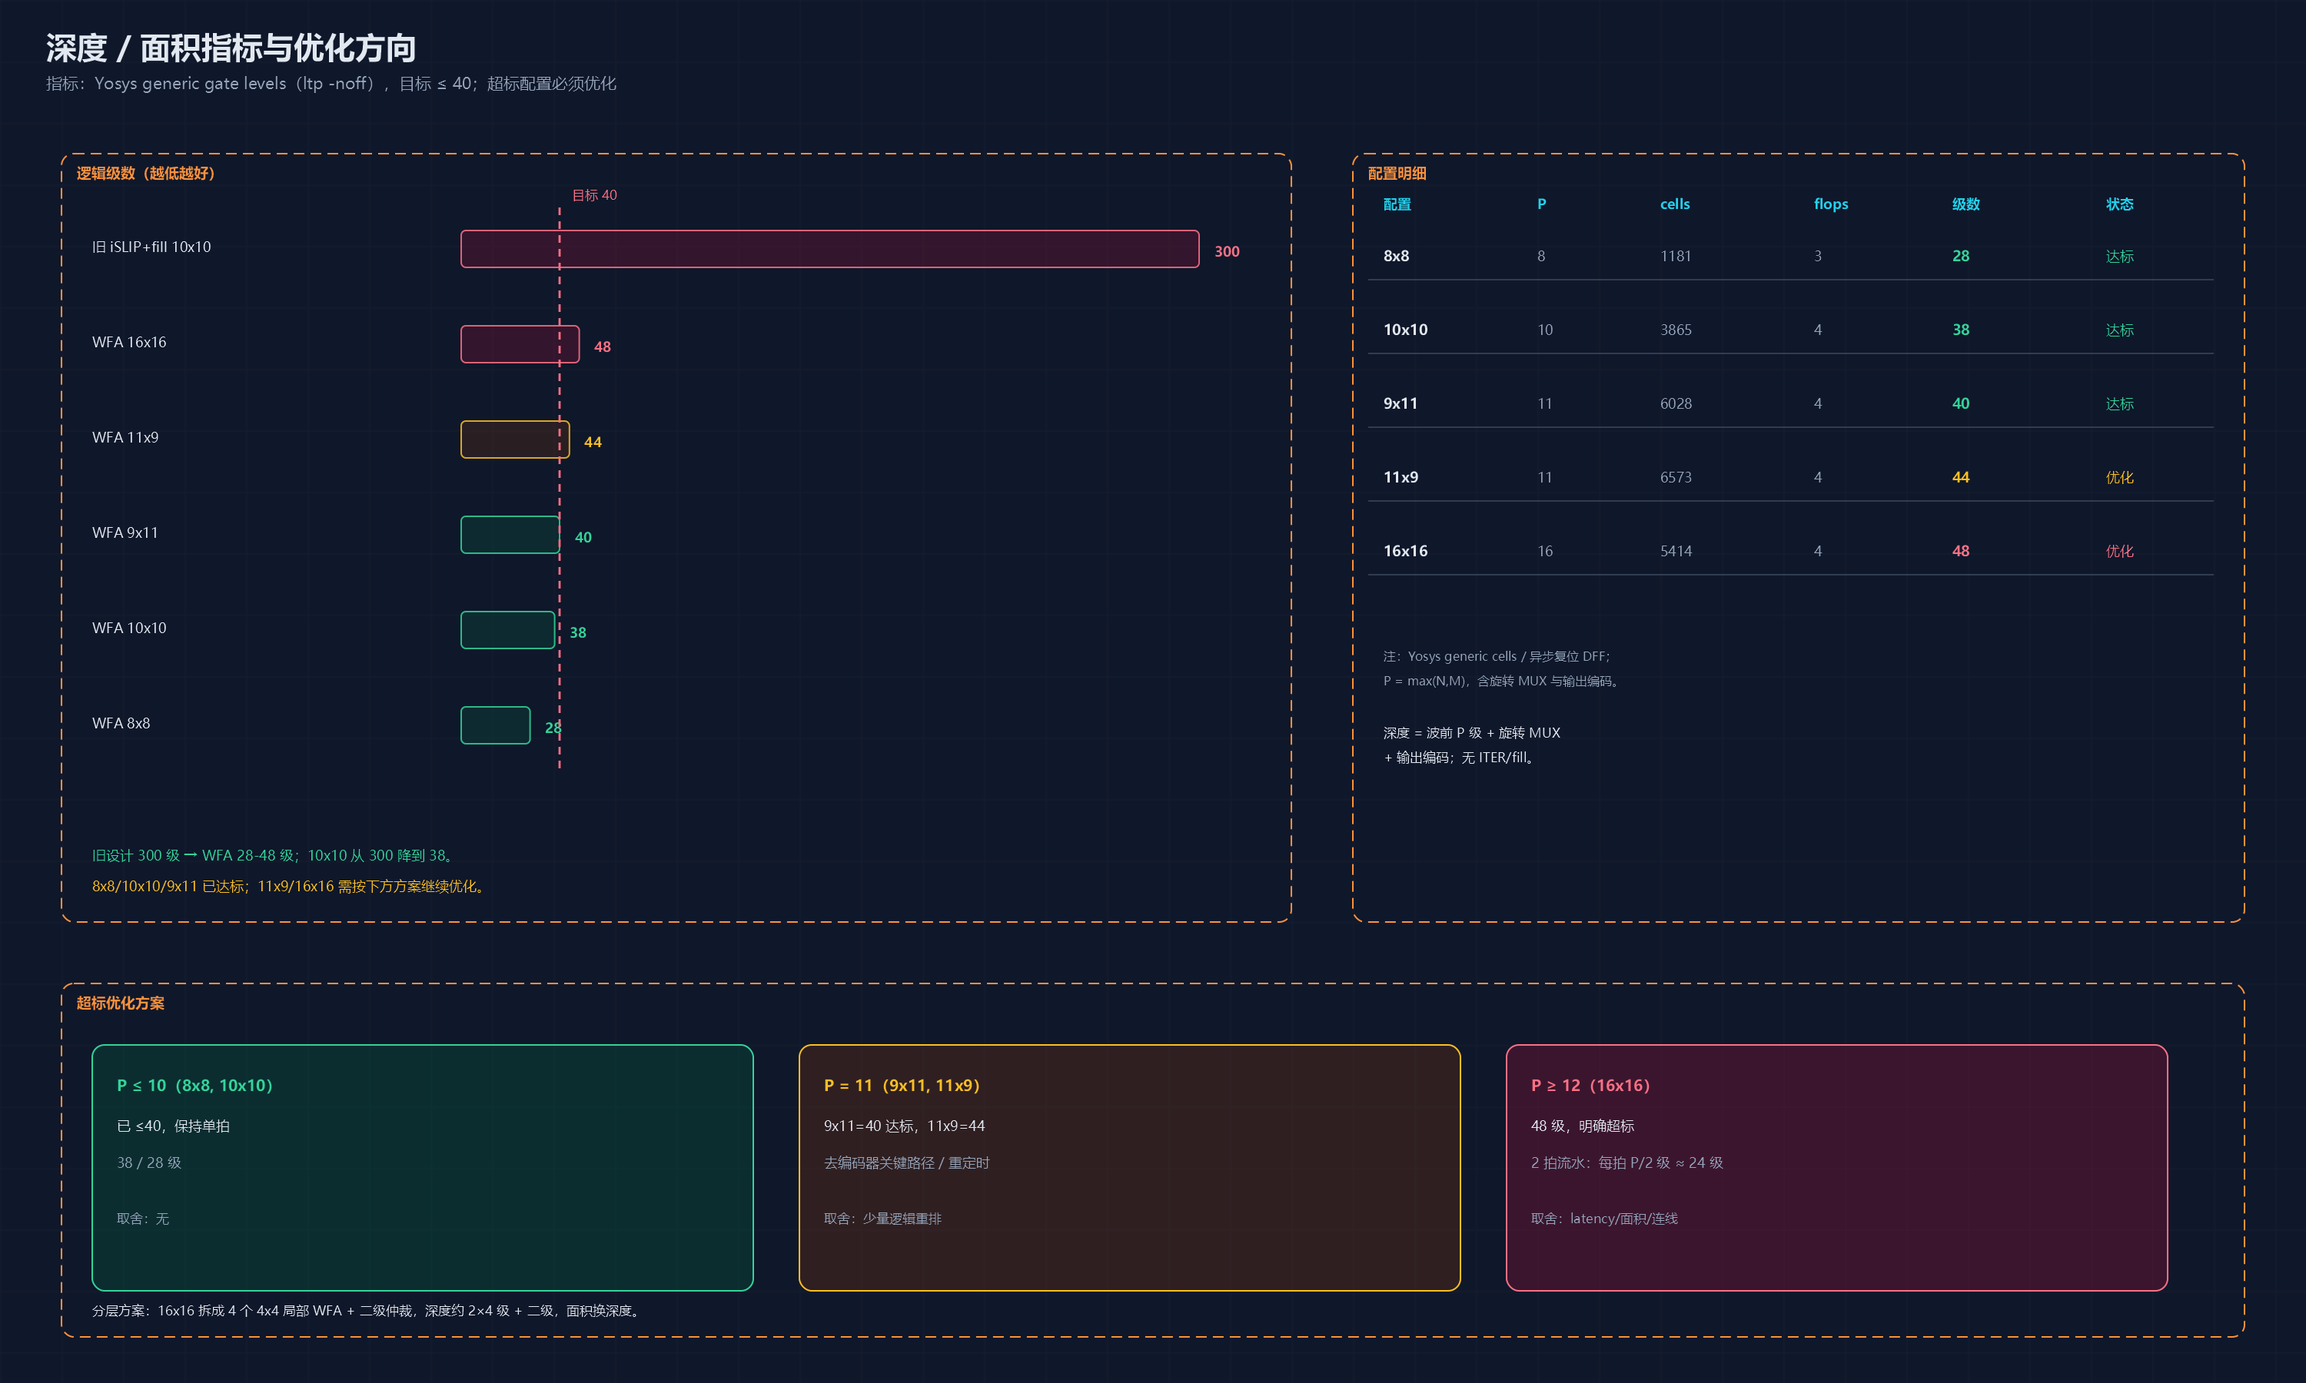
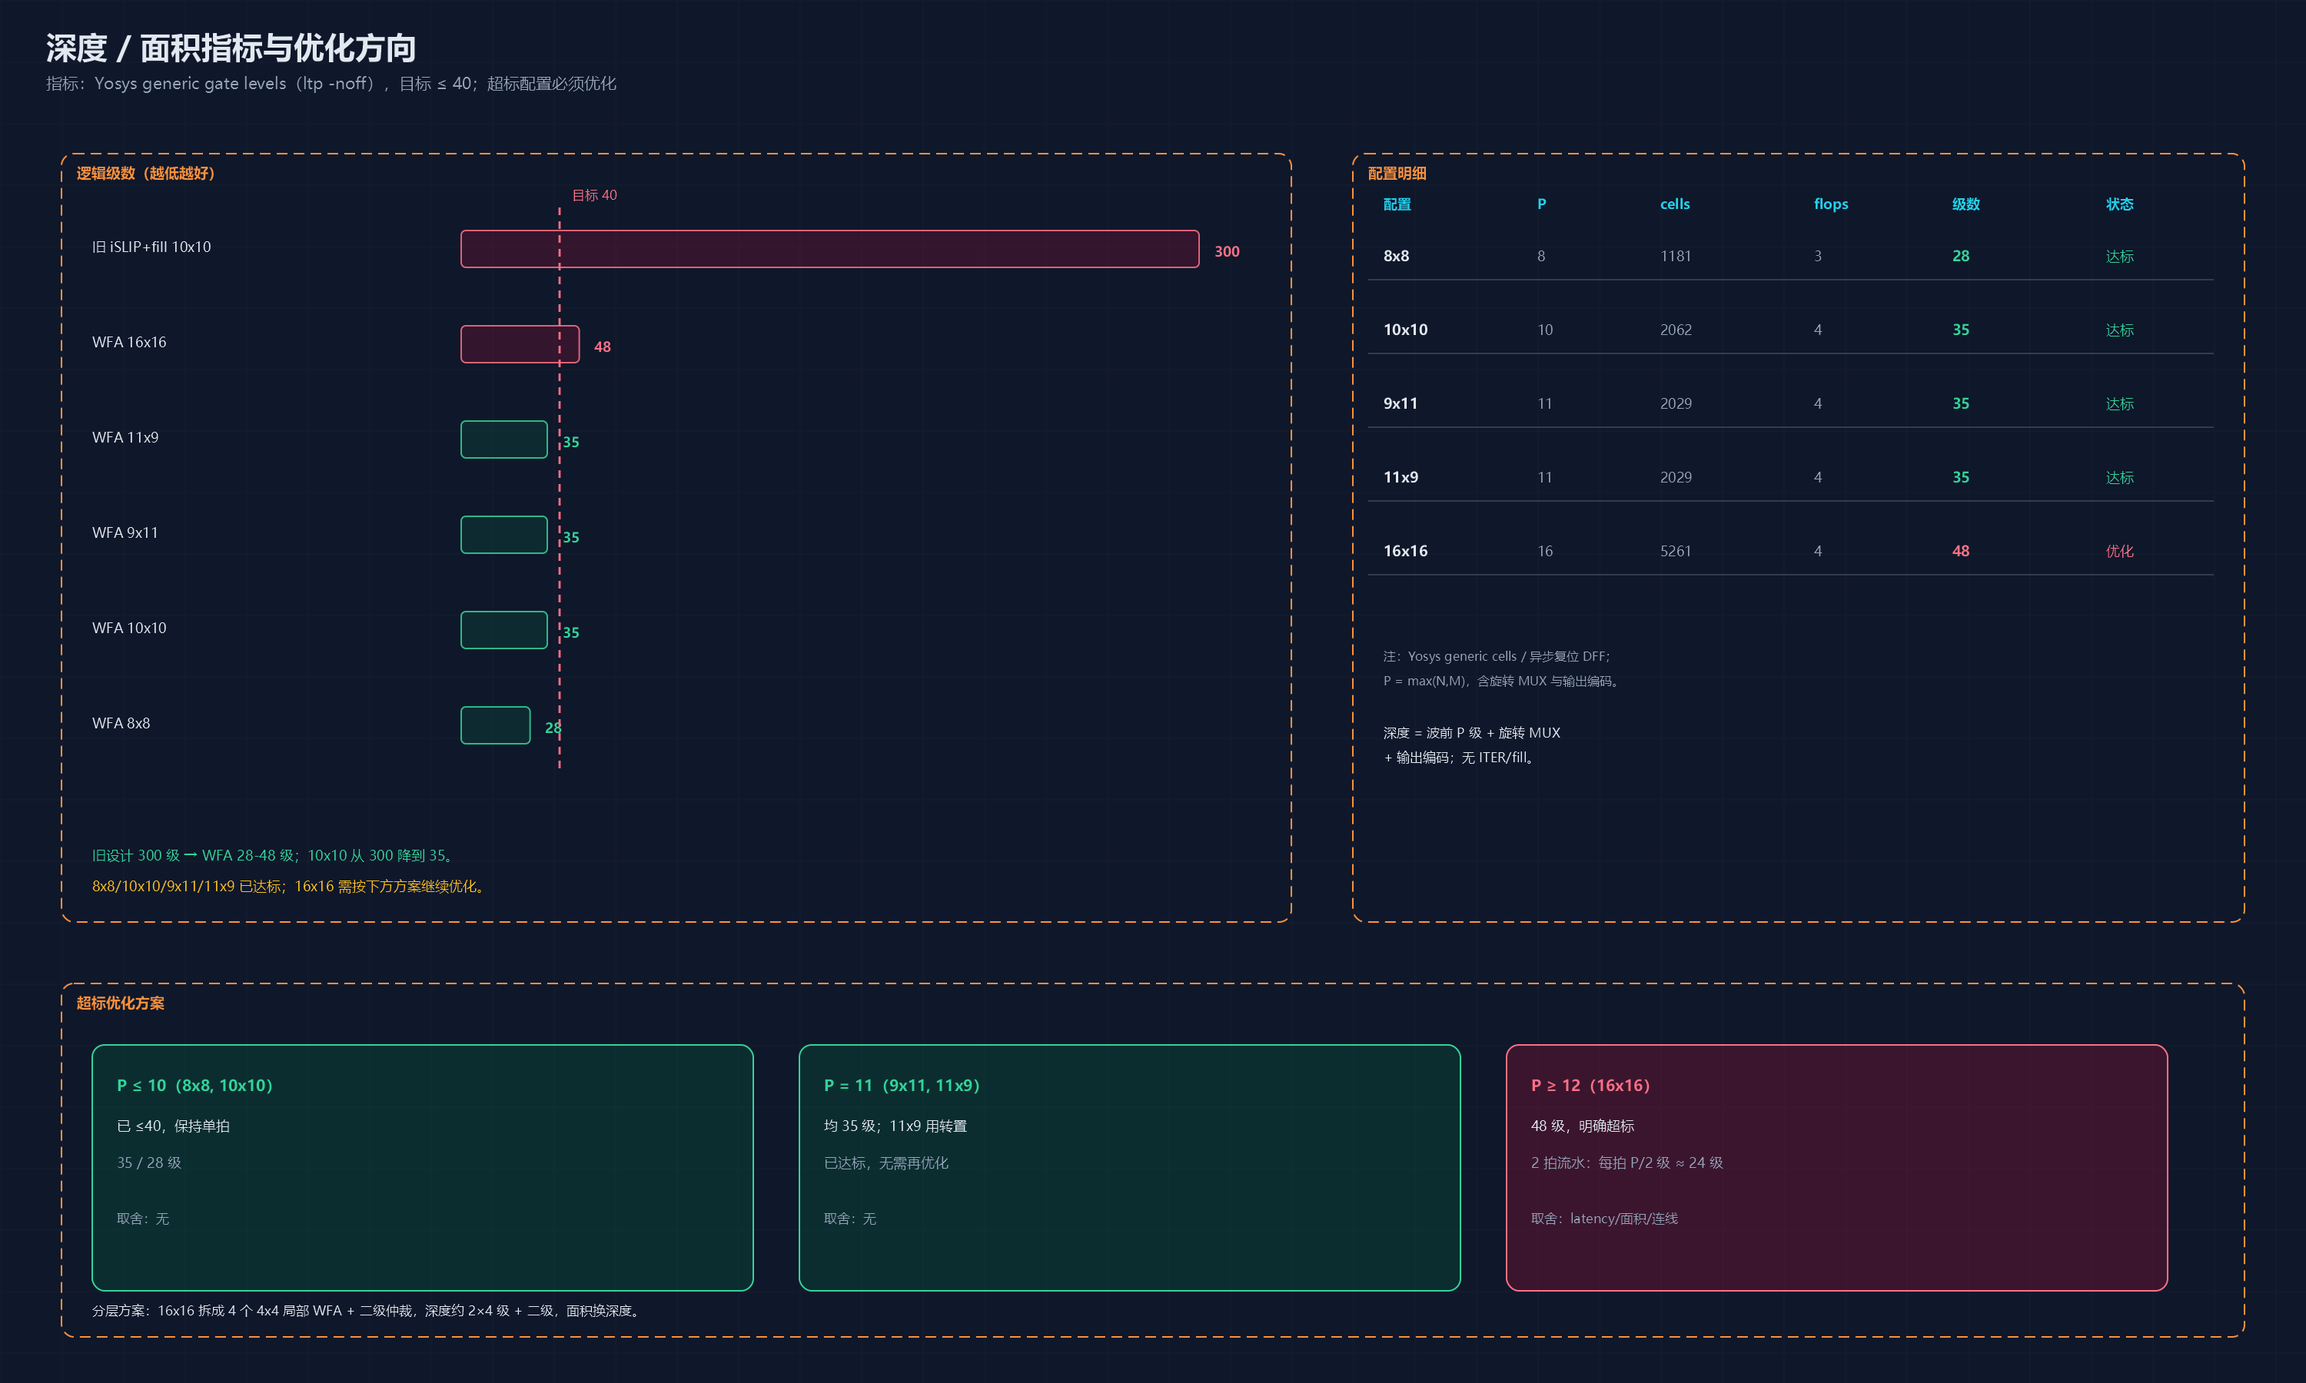
perf: log-depth delta rotator + N>M transpose + conditional reset
- Replace the runtime modulo + per-bit P-way mux with a log-depth cyclic
  rotator (P*logP muxes/row) for both input and inverse delta rotation.
- Add an N>M transpose wrapper: the core always sees Nc=min(N,M),
  Mc=max(N,M); the transpose is pure wiring, so 11x9 reuses the 9x11 core.
- Instantiate the output reset AND only for PTR_RESET=0; the default
  async-reset configuration no longer pays for it.

Yosys (flattened, generic gates): 8x8 1181/28, 10x10 2062/35,
9x11 2029/35, 11x9 2029/35, 16x16 5261/48; only 16x16 is above the
40-level target.  Old 10x10 was 3865/38.

Verification: main 22 configs / 295,797 checks PASS; maximality 18/18
(0 non-max, 0 wasted); soak 4x1500 + 10x10x20000 PASS; X-check 0;
verify_wfa.py 94,475 cases, 0 failures.  Docs/diagrams updated.

Changed region(s): [[0.341, 0.7467, 0.651, 0.9333], [0.186, 0.28, 0.248, 0.3422], [0.093, 0.6222, 0.124, 0.6533]]

diff --git a/scripts/gen_wfa_diagrams.py b/scripts/gen_wfa_diagrams.py
@@ -60,7 +60,7 @@ def d00(path):
     d = SVG(1700, 1050)
     d.txt(30, 38, "波前仲裁器（WFA / WWFA）— 总图", 20, TXT, weight=700)
     d.txt(30, 58, "P = max(N,M) 级对角线波前 · 每级 P 个 crosspoint cell · 单拍输出 · "
-                  "唯一状态是旋转起点 δ", 10.5, DIM)
+                  "N>M 自动转置 · 唯一状态是旋转起点 δ", 10.5, DIM)
 
     # inputs
     d.chip(30, 92, 150, 34, "clk", None, CYAN, title_size=10)
@@ -70,9 +70,10 @@ def d00(path):
     d.chip(30, 330, 220, 48, "i_dest_bp [M]", None, CYAN, title_size=9)
 
     # pad block
-    d.region(290, 150, 200, 260, "① 填充 / 门控")
-    d.txt(300, 180, "P x P 请求矩阵", 9, TXT, weight=600)
-    d.txt(300, 194, "真实 N x M + dummy 0", 7.5, DIM)
+    d.region(290, 150, 200, 260, "① 对称化 / 填充 / 门控")
+    d.txt(300, 180, "N>M: 先转置（纯连线）", 8.5, TXT, weight=600)
+    d.txt(300, 194, "Nc=min, Mc=max, P=Mc", 7.5, DIM)
+    d.txt(300, 208, "真实 Nc x Mc + dummy 0", 7.5, DIM)
     colors = [[MUTED] * 4 for _ in range(4)]
     real = [[True] * 4 for _ in range(4)]
     labels = [[""] * 4 for _ in range(4)]
@@ -80,10 +81,9 @@ def d00(path):
         for j in range(4):
             labels[i][j] = "R" if (i < 3 and j < 3) else "-"
             colors[i][j] = CYAN if (i < 3 and j < 3) else MUTED
-    grid4(d, 306, 214, 30, colors, labels, real=real)
-    d.txt(306, 356, "R = req & rst_n & ~src_bp & ~dest_bp", 7.5, DIM)
-    d.txt(306, 370, "dummy 行/列恒 0", 7.5, DIM)
-    d.txt(306, 384, "输出 req_pad[P x P]", 7.5, CYAN)
+    grid4(d, 306, 228, 30, colors, labels, real=real)
+    d.txt(306, 370, "R = req & rst_n & ~src_bp & ~dest_bp", 7.5, DIM)
+    d.txt(306, 384, "dummy 行/列恒 0；输出 req_pad[P x P]", 7.5, DIM)
 
     # rotate block
     d.region(520, 150, 190, 190, "② 列旋转 δ")
@@ -167,6 +167,7 @@ def d00(path):
     d.txt(1472, 334, "此级只做编码/扇出", 7.5, DIM)
     d.txt(1472, 360, "无 iSLIP 迭代、无 augment", 7.5, DIM)
     d.txt(1472, 374, "无 N 级串行 fill", 7.5, DIM)
+    d.txt(1472, 394, "N>M 时输出转置回 N x M", 7.5, CYAN)
 
     # output chips
     outs = [
@@ -210,8 +211,8 @@ def d00(path):
 
     # depth panel
     d.region(30, 700, 680, 300, "深度指标（Yosys generic gate levels）", AMBER)
-    rows = [("8x8", "P=8", "28", GREEN), ("10x10", "P=10", "38", GREEN),
-            ("9x11", "P=11", "40", GREEN), ("11x9", "P=11", "44", AMBER),
+    rows = [("8x8", "P=8", "28", GREEN), ("10x10", "P=10", "35", GREEN),
+            ("9x11", "P=11", "35", GREEN), ("11x9", "P=11", "35", GREEN),
             ("16x16", "P=16", "48", ROSE)]
     d.txt(50, 732, "配置", 9, DIM, weight=600)
     d.txt(190, 732, "P", 9, DIM, weight=600)
@@ -226,7 +227,7 @@ def d00(path):
               GREEN if c == GREEN else c)
         d.add('<line x1="40" y1="%d" x2="700" y2="%d" stroke="%s" '
               'stroke-width="0.5"/>' % (y + 10, y + 10, MUTED))
-    d.txt(50, 950, "目标线 40：8x8 / 10x10 / 9x11 达标；11x9 / 16x16 见右下优化方案", 8.5, AMBER)
+    d.txt(50, 950, "目标线 40：8x8 / 10x10 / 9x11 / 11x9 达标；仅 16x16 超标", 8.5, AMBER)
 
     # notes
     d.region(740, 780, 930, 220, "算法要点 / 优化方向", ORANGE)
@@ -235,7 +236,7 @@ def d00(path):
         "若某请求对两端在结束时都空闲，则轮到它时两端也空闲，必 grant。",
         "极大 ≠ 最大：允许某个源因唯一目的已被更早的对角线占用而落选。",
         "深度 = P 级 × 单 cell 延时 + 旋转/编码；没有 ITER 展开、没有串行 fill。",
-        "11x9 / 16x16 超过 40：可把波前按 2 拍流水（每拍 P/2 级，~24 级），或按 4x4",
+        "16x16 超过 40：可把波前按 2 拍流水（每拍 P/2 级，~24 级），或按 4x4",
         "分层先局部 WFA 再二级仲裁；代价分别是 latency +1 / 面积与连线增加。",
     ]
     for k, s in enumerate(notes):
@@ -669,9 +670,9 @@ def d05(path):
     rows = [
         ("旧 iSLIP+fill 10x10", 300, ROSE),
         ("WFA 16x16", 48, ROSE),
-        ("WFA 11x9", 44, AMBER),
-        ("WFA 9x11", 40, GREEN),
-        ("WFA 10x10", 38, GREEN),
+        ("WFA 11x9", 35, GREEN),
+        ("WFA 9x11", 35, GREEN),
+        ("WFA 10x10", 35, GREEN),
         ("WFA 8x8", 28, GREEN),
     ]
     maxv = 300
@@ -687,8 +688,8 @@ def d05(path):
     tx = 300 + 480 * 40 / maxv
     d.wire([(tx, 135), (tx, 500)], ROSE, arrow=False, dash="5,4")
     d.txt(tx + 8, 130, "目标 40", 8.5, ROSE)
-    d.txt(60, 560, "旧设计 300 级 → WFA 28-48 级；10x10 从 300 降到 38。", 9, GREEN)
-    d.txt(60, 580, "8x8/10x10/9x11 已达标；11x9/16x16 需按下方方案继续优化。", 9, AMBER)
+    d.txt(60, 560, "旧设计 300 级 → WFA 28-48 级；10x10 从 300 降到 35。", 9, GREEN)
+    d.txt(60, 580, "8x8/10x10/9x11/11x9 已达标；16x16 需按下方方案继续优化。", 9, AMBER)
 
     # table
     d.region(880, 100, 580, 500, "配置明细")
@@ -698,10 +699,10 @@ def d05(path):
         d.txt(x, 136, h, 9, CYAN, weight=600)
     data = [
         ("8x8", "8", "1181", "3", "28", GREEN),
-        ("10x10", "10", "3865", "4", "38", GREEN),
-        ("9x11", "11", "6028", "4", "40", GREEN),
-        ("11x9", "11", "6573", "4", "44", AMBER),
-        ("16x16", "16", "5414", "4", "48", ROSE),
+        ("10x10", "10", "2062", "4", "35", GREEN),
+        ("9x11", "11", "2029", "4", "35", GREEN),
+        ("11x9", "11", "2029", "4", "35", GREEN),
+        ("16x16", "16", "5261", "4", "48", ROSE),
     ]
     for k, (cfg, p, cells, ff, lv, c) in enumerate(data):
         y = 170 + k * 48
@@ -721,8 +722,8 @@ def d05(path):
     # optimization
     d.region(40, 640, 1420, 230, "超标优化方案")
     cards = [
-        ("P ≤ 10（8x8, 10x10）", "已 ≤40，保持单拍", "38 / 28 级", GREEN),
-        ("P = 11（9x11, 11x9）", "9x11=40 达标，11x9=44", "去编码器关键路径 / 重定时", AMBER),
+        ("P ≤ 10（8x8, 10x10）", "已 ≤40，保持单拍", "35 / 28 级", GREEN),
+        ("P = 11（9x11, 11x9）", "均 35 级；11x9 用转置", "已达标，无需再优化", GREEN),
         ("P ≥ 12（16x16）", "48 级，明确超标", "2 拍流水：每拍 P/2 级 ≈ 24 级", ROSE),
     ]
     for k, (t, s1, s2, c) in enumerate(cards):

diff --git a/docs/ppa.md b/docs/ppa.md
@@ -154,7 +154,7 @@ output encoders.  Designs above 40 levels are flagged for optimization.
 | Design | 8x8 | 10x10 | 9x11 | 11x9 | 16x16 |
 |--------|-----|-------|------|------|-------|
 | iSLIP + serial fill (old) | 129 (ITER=1) | 300 (ITER=4/AUG=1) | - | - | 372 (ITER=1) |
-| Wavefront WFA (default) | **28** | **38** | **40** | 44 | 48 |
+| Wavefront WFA (default) | **28** | **35** | **35** | **35** | 48 |
 | Target | <=40 | <=40 | <=40 | <=40 | <=40 |
 
 WFA synthesis detail (generic cells, async-reset DFF, `synth/synth.ys`):
@@ -162,20 +162,21 @@ WFA synthesis detail (generic cells, async-reset DFF, `synth/synth.ys`):
 | Config | cells | flops | levels |
 |--------|-------|-------|--------|
 | 8x8 | 1181 | 3 | 28 |
-| 10x10 | 3865 | 4 | 38 |
-| 9x11 | 6028 | 4 | 40 |
-| 11x9 | 6573 | 4 | 44 |
-| 16x16 | 5414 | 4 | 48 |
+| 10x10 | 2062 | 4 | 35 |
+| 9x11 | 2029 | 4 | 35 |
+| 11x9 | 2029 | 4 | 35 |
+| 16x16 | 5261 | 4 | 48 |
 
 The WFA numbers are for `rtl/fair_arbiter.v` (P = max(N,M) torus
-diagonals, P stages, rotating start).  `8x8`, `10x10` and `9x11` meet the target; `11x9` is 4 levels over and can be
-fixed by removing the output encoder from the critical path or retiming;
-`16x16` is 8 levels over and is the
+diagonals, P stages, rotating start).  The current RTL also uses a log-depth
+cyclic rotator for delta (instead of a runtime modulo + per-bit P-way mux) and
+an N>M transpose wrapper, so 11x9 reuses the 9x11 core; the N>M transpose is pure
+wiring and saves both rotation rows and output-encoder logic.  `8x8`, `10x10`, `9x11` and `11x9` meet the target; `16x16` is 8 levels over and is the
 candidate for a 2-cycle pipelined wavefront (P/2 = 8 stages per cycle, about 24
 levels) or a 4x4 hierarchical split.  The cell itself is 2 gate levels
 (`G = R & N & W`, token update = AND + NAND), so the depth is dominated by P.
 
 WFA also removes the serial N-stage fill: the 10x10 area drops from 11,821 to
-3,865 cells and the flop count from 80 to 4 (only the rotating start register).
+2,062 cells and the flop count from 80 to 4 (only the rotating start register).
 The price is that WFA is maximal but not maximum-cardinality, and the exact
 per-port RR order is relaxed (see `diagram/circuit/README.md`).

diff --git a/docs/perf.md b/docs/perf.md
@@ -30,7 +30,7 @@ each grant; full crossbar is 100% from the first cycle for every shape.
 
 The WFA is maximal, not maximum-cardinality: random square traffic is 86-92%
 versus 97-98% for the old iSLIP+augment.  In exchange the 10x10 depth drops from
-300 to 38 gate levels and the cell count from 11,821 to 3,865.
+300 to 35 gate levels and the cell count from 11,821 to 2,062.
 
 ## iSLIP reference results (old default)
 
@@ -145,9 +145,9 @@ keeps strict iSLIP fairness and is still maximal thanks to the fill.
 2. **WFA trades matching size for depth**: random square traffic is 81% (4x4),
    86% (8x8), 89% (10x10), 92% (16x16), and 96-100% for N!=M.  The old
    iSLIP+augment reference reaches 97-98% at 8x8/10x10, but costs 300 levels
-   at 10x10 versus 38 for the WFA.
+   at 10x10 versus 35 for the WFA.
 
-3. **Depth/area (10x10)**: 3865 cells / 38 levels / 4 flops for the WFA,
+3. **Depth/area (10x10)**: 2062 cells / 35 levels / 4 flops for the WFA,
    versus 11821 cells / 300 levels / 80 flops for iSLIP+fill.  The WFA removes
    the ITER unrolling, the augmenting swap and the serial residual fill.
 
@@ -157,10 +157,11 @@ keeps strict iSLIP fairness and is still maximal thanks to the fill.
    directions, so a strict 0,1,2,... order on both sides is not preserved.
    This is the documented tradeoff for the depth reduction.
 
-5. **P > 10 exceeds the 40-level target**: 9x11 = 40, 11x9 = 44, 16x16 = 48.
-   Optimize by retiming the output encoders (11x9) or by a 2-cycle pipelined
-   wavefront / 4x4 hierarchical split (P=16).  See `docs/ppa.md` and
-   `diagram/circuit/wfa_05_depth.png`.
+5. **Only 16x16 exceeds the 40-level target**: 8x8 = 28, 10x10 = 35,
+   9x11 = 35, 11x9 = 35 (N>M transpose), 16x16 = 48.  For 16x16 use a 2-cycle
+   pipelined wavefront (P/2 = 8 stages per cycle, about 24 levels) or a 4x4
+   hierarchical split; a standard-cell AOI library may also lower the generic
+   48.  See `docs/ppa.md` and `diagram/circuit/wfa_05_depth.png`.
 
 The iSLIP reference table above is kept to show the 97-98% matching-size
 reference point; it is no longer the default RTL.

diff --git a/README.zh-CN.md b/README.zh-CN.md
@@ -13,7 +13,7 @@
 - **每拍极大匹配（无浪费调度）**：P 条 torus 对角线按波前顺序访问所有 crosspoint；cell 只在 `R & N & W` 时 grant，行/列 token 随后消耗。证明见下节。
 - **正交匹配**：同一对角线内一行一个、一列一个；跨对角线由 free token 保证，任何源/目的至多一次。
 - **当拍出结果**：cell 是纯组合逻辑，P 级波前完成后直接输出；唯一时序元件是 δ 旋转寄存器。
-- **低逻辑级数**：10x10 为 38 级（目标 ≤40），旧 iSLIP+串行 fill 为 300 级；8x8 为 28 级。
+- **低逻辑级数**：10x10 为 35 级（目标 ≤40），旧 iSLIP+串行 fill 为 300 级；8x8 为 28 级。
 - **旋转公平**：δ 每个 grant 后 +1；P 个周期覆盖所有对角线，每个源/目的都轮获得最高优先级。计数公平、无饥饿；严格 per-port RR 顺序做了一升一降的折中。
 - **反压 / 复位**：`i_src_bp` / `i_dest_bp` 组合门控；`rst_n` 异步复位；`PTR_RESET=0` 可省 δ 复位。
 - **参考实现**：`rtl/reference/fair_arbiter_islip.v` 保留严格双向 RR 的 iSLIP+fill 版本，用于对比。
@@ -38,10 +38,10 @@ WFA 按 torus 对角线顺序访问每个 crosspoint 恰好一次。反证：若
 - [深度 / 面积指标](diagram/circuit/wfa_05_depth.png)
 
 索引与算法对比见 [diagram/circuit/README.md](diagram/circuit/README.md)。WFA RTL
-（`rtl/fair_arbiter.v`，默认 RTL）10x10 综合为 3865 cells /
-38 级，而旧 iSLIP+fill 为 11821 cells / 300 级。WFA 是极大匹配（不浪费调度）
+（`rtl/fair_arbiter.v`，默认 RTL）10x10 综合为 2062 cells /
+35 级，而旧 iSLIP+fill 为 11821 cells / 300 级。WFA 是极大匹配（不浪费调度）
 但不是最大匹配，且源/目的 RR 顺序是一升一降的折中；8x8/10x10 满足 ≤40 级，
-11x9/16x16 超 4-8 级，索引文档给出了 2 拍流水 / 分层优化方案。
+16x16 超 8 级，索引文档给出了 2 拍流水 / 分层优化方案。
 
 ## 文件结构
 

diff --git a/README.md b/README.md
@@ -36,12 +36,14 @@ rotating priority, the no-waste proof, and the depth/area metric.
 - [Depth / area metric](diagram/circuit/wfa_05_depth.png)
 
 Index and algorithm comparison: [diagram/circuit/README.md](diagram/circuit/README.md).
-The default RTL (`rtl/fair_arbiter.v`) is now the WFA implementation; 10x10 maps to 3865 cells / 38 gate levels, vs 11821 cells /
+The default RTL (`rtl/fair_arbiter.v`) is now the WFA implementation; 10x10 maps to 2062 cells / 35 gate levels, vs 11821 cells /
 300 levels for the iSLIP+fill version.  It is maximal (no wasted pair) but not
 maximum-cardinality, and its per-port RR order is relaxed (the two sides rotate
 in opposite directions); see the index for the exact tradeoff.  The <=40-level
-target is met at 8x8/10x10; 11x9 and 16x16 are 4-8 levels over and have a
-documented 2-cycle / hierarchical optimization path.
+target is met at 8x8/10x10/9x11/11x9; 16x16 is 8 levels over and has a
+documented 2-cycle / hierarchical optimization path.  The RTL uses a
+log-depth cyclic rotator for the delta priority and an N>M transpose wrapper
+(pure wiring), so 11x9 reuses the 9x11 core.
 
 ## Files
 
